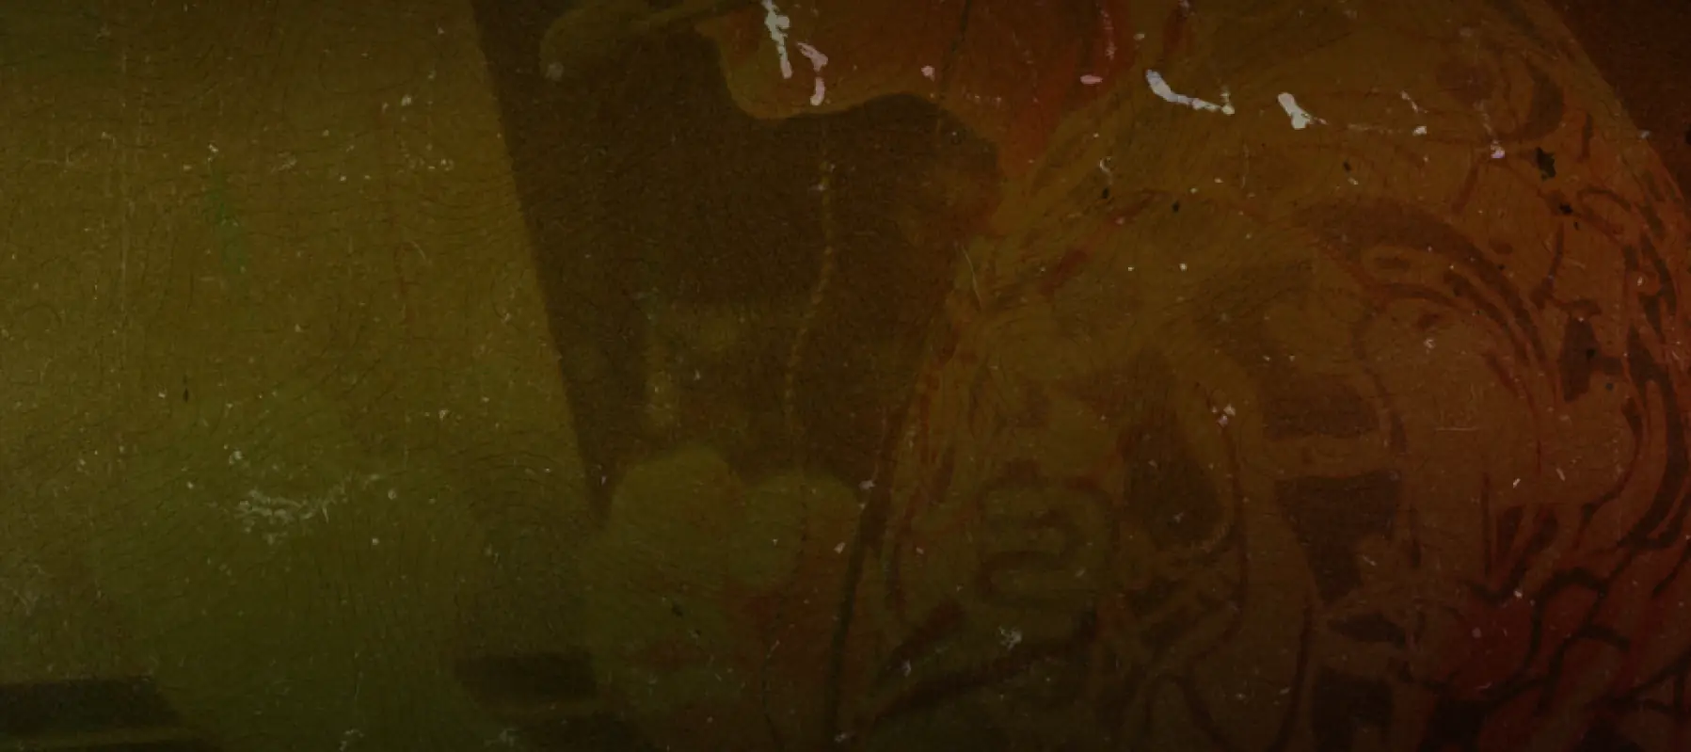
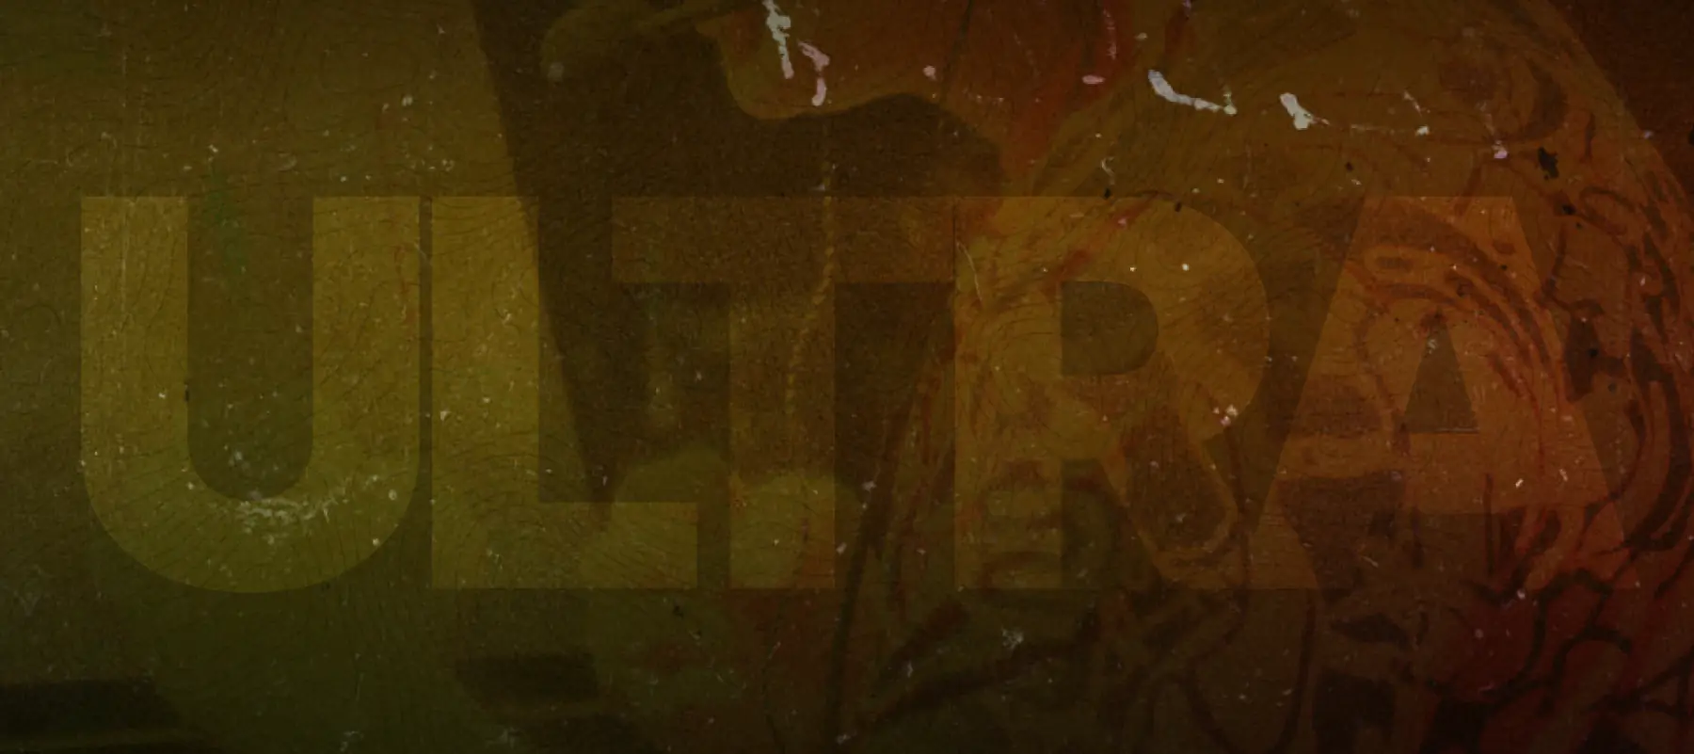
New Ultra desktop layout; rebuild hero slider on one frame loop
- Ultra slide (Figma 415:8492): large centred pouch, copy bottom-left,
  ULTRA letters colour-dodged and baked into the desktop background.
- Desktop progress bars sit under the copy, left-aligned.
- Slider: one requestAnimationFrame loop now drives transitions, the
  progress bars, autoplay and hover tilt. No more Web Animations fill
  states, CSS animationend autoplay, or CSS tilt transitions competing
  for the same elements. Presses mid-transition are queued.
- Load-in animation is cancelled as soon as the slider takes over, so
  changing slides during the intro no longer leaves layers stuck.

Claude-Session: https://claude.ai/code/session_01VpwYWBZX437HjZy1httESj

diff --git a/index.html b/index.html
@@ -133,7 +133,7 @@ img{display:block;max-width:100%}
 
 /* ───────── HERO SLIDER ───────── */
 .hero{position:relative;height:clamp(560px,175vw,720px);overflow:hidden;background:#1f1708;touch-action:pan-y;isolation:isolate}
-.slide{position:absolute;inset:0;visibility:hidden;z-index:0;overflow:hidden}
+.slide{position:absolute;inset:0;visibility:hidden;z-index:0;overflow:hidden;container-type:size}
 .slide.is-active,.slide.is-out{visibility:visible;z-index:1}
 .slide.is-in{visibility:visible;z-index:2}
 /* backgrounds: one pre-cropped image per breakpoint with every gradient/dim baked in; only transform + opacity ever animate */
@@ -144,13 +144,12 @@ img{display:block;max-width:100%}
   padding-top:calc(var(--bar-h) + 10px);padding-bottom:62px;padding-left:var(--gx);padding-right:var(--gxr);text-align:center}
 .slide[data-align="start"] .s-stage{align-items:flex-start;text-align:left;gap:16px}
 .s-pouch{flex:0 1 auto;height:54%;min-height:0;display:flex;justify-content:center;align-items:center;will-change:transform}
-.tilt{height:100%;transition:translate .9s cubic-bezier(.2,.8,.2,1),rotate .9s cubic-bezier(.2,.8,.2,1)}
+.tilt{height:100%}  /* hover tilt is eased in JS, inside the slider's frame loop */
 .s-pouch img{height:100%;width:auto;max-width:82vw;object-fit:contain;filter:drop-shadow(0 30px 40px rgba(0,0,0,.45));animation:float 7s ease-in-out infinite}
 @keyframes float{0%,100%{transform:translateY(0) rotate(-1.2deg)}50%{transform:translateY(-12px) rotate(1.4deg)}}
 /* G2: two pouches overlapping, black set back, yellow forward; each travels at its own speed */
 /* Positions are solved from each pouch's solid outline (the PNGs carry a soft shadow off to the right/bottom),
    so the pair is centred on the pouches themselves, not on their image boxes. Units are the slide's size (cqw/cqh). */
-.slide[data-k="g2"]{container-type:size}
 .duo{position:absolute;top:0;left:0;width:100%;height:100%;pointer-events:none}
 .duo .s-pouch{position:absolute;transform-origin:33% 47%}
 /* phone: fanned pair, each pouch ~42% of the hero tall, centred on the column above the copy */
@@ -179,10 +178,6 @@ img{display:block;max-width:100%}
 .dot .track{display:block;height:3px;border-radius:20px;background:var(--t-30);overflow:hidden;transition:background-color .2s}
 .dot:hover .track{background:rgba(255,255,255,.5)}
 .dot .fill{display:block;height:100%;background:var(--paper);border-radius:20px;transform-origin:left;transform:scaleX(0)}
-.dot.on .fill{animation:fill var(--dur,6500ms) linear forwards}
-.dot.done .fill{transform:scaleX(1)}
-.hero.paused .dot.on .fill{animation-play-state:paused}
-@keyframes fill{to{transform:scaleX(1)}}
 .ctrls{position:absolute;z-index:5;right:calc(33px + env(safe-area-inset-right,0px));bottom:22px;display:flex;gap:12px}
 .ctrl{width:39px;height:39px;border-radius:20px;display:grid;place-items:center;color:#000;
   background:rgba(255,255,255,.62);transition:background-color .2s,scale .25s var(--ease-out)}
@@ -233,8 +228,16 @@ img{display:block;max-width:100%}
   .duo .p-back{height:74cqh;top:17.5cqh;left:calc(50% - 54.8cqh);rotate:-3deg}
   .duo .p-front{height:73.2cqh;top:18.4cqh;left:calc(50% - 6.7cqh);rotate:.24deg}
   .slide[data-k="g2"] .s-copy,.slide[data-k="g2"] .s-btn{position:relative;z-index:3}
-  .slide[data-align="start"] .s-stage{padding-left:max(6vw,var(--gx));padding-bottom:86px}
+  /* Figma 415:8492 / 560:9473: copy sits bottom-left at 67/1797 of the width, progress bars 22px under the button */
+  .hero{--copy-x:max(3.73vw, var(--gx))}
+  .slide[data-align="start"] .s-stage,.slide[data-k="ultra"] .s-stage{padding-left:var(--copy-x);padding-bottom:76px;align-items:flex-start;text-align:left;gap:22px}
   .slide[data-align="start"] .s-copy{max-width:420px}
+  .slide[data-k="ultra"] .s-copy{max-width:361px;gap:10px}
+  .slide[data-k="ultra"] .display{white-space:nowrap}
+  .dots{left:var(--copy-x);bottom:45px;transform:none}
+  /* Ultra: pouch centred and large (538/800 of the hero), big ULTRA letters are baked into the background */
+  .slide[data-k="ultra"] .s-pouch{position:absolute;left:50%;top:18.4cqh;height:67.25cqh;translate:-50% 0}
+  .slide[data-k="ultra"] .s-pouch img{max-width:none}
   .tiles{grid-template-columns:1fr 1fr}
   .tile{height:clamp(560px,38.4vw,800px)}
   .hands{width:53.6%}
@@ -252,7 +255,6 @@ img{display:block;max-width:100%}
 
 @media (prefers-reduced-motion:reduce){
   *,*::before,*::after{animation-duration:.001ms!important;animation-iteration-count:1!important;transition-duration:.001ms!important;transition-delay:0s!important}
-  .dot.on .fill{animation:none;transform:scaleX(1)}
   .tilt{translate:none!important;rotate:none!important}
 }
 </style>
@@ -544,116 +546,101 @@ img{display:block;max-width:100%}
   burger.addEventListener('click', () => toggleM());
   $$('.mnav [data-close]').forEach(a => a.addEventListener('click', () => toggleM(false)));
 
-  /* ── hero slider ── */
+  /* ── hero slider ──
+     One requestAnimationFrame loop owns every moving part of the hero: slide transitions, the progress bars,
+     autoplay and the hover tilt. Each frame computes every layer's position from the clock, so a transition can't be
+     left half-finished, two effects never fight over the same element, and a press mid-transition is simply queued. */
   const hero = $('#hero'), slides = $$('.slide', hero), dots = $$('.dot', hero), live = $('#live');
-  const N = slides.length;
-  let cur = 0, busy = false, pending = null, tiltTo = null;
-  /* cheap dimmer per slide (animating filter on a full-bleed photo repaints every frame and stutters) */
+  const N = slides.length, DUR = 6500, END = 1840;
   slides.forEach(s => { const d = document.createElement('div'); d.className = 's-dim'; $('.s-bg', s).appendChild(d); });
-  const L = s => ({ bg: $('.s-bg', s), img: $('.s-bg img', s), dim: $('.s-dim', s), pouches: $$('.s-pouch', s), copy: $('.s-copy', s), btn: $('.s-btn', s) });
-  /* decode every slide image up front so nothing pops in mid-transition */
+  const L = s => ({ s, bg: $('.s-bg', s), img: $('.s-bg img', s), dim: $('.s-dim', s), pouches: $$('.s-pouch', s), tilts: $$('.tilt', s), copy: $('.s-copy', s), btn: $('.s-btn', s) });
+  const layers = slides.map(L);
   const decoded = new WeakMap();
   const prep = s => {
     if (!decoded.has(s)) decoded.set(s, Promise.all($$('img', s).map(im => { im.loading = 'eager'; return im.decode ? im.decode().catch(() => {}) : Promise.resolve(); })));
     return decoded.get(s);
   };
 
-  function setDot(i) {
-    dots.forEach((d, k) => { d.classList.remove('on'); d.removeAttribute('aria-current'); });
-    void dots[i].offsetWidth; /* restart fill */
-    dots[i].classList.add('on'); dots[i].setAttribute('aria-current', 'true');
-  }
+  /* cubic-bezier evaluated by bisection: slow-ish but exact and can't diverge */
+  const bez = (x1, y1, x2, y2) => {
+    const f = (u, a, b) => 3 * (1 - u) * (1 - u) * u * a + 3 * (1 - u) * u * u * b + u * u * u;
+    return t => { if (t <= 0) return 0; if (t >= 1) return 1; let lo = 0, hi = 1, u = t; for (let i = 0; i < 20; i++) { u = (lo + hi) / 2; if (f(u, x1, x2) < t) lo = u; else hi = u; } return f(u, y1, y2); };
+  };
+  const IO = bez(.76, 0, .2, 1), OUT = bez(.16, 1, .3, 1), IN = bez(.55, 0, .8, .2), PIN = bez(.3, 0, .7, .4), LIN = t => Math.min(1, Math.max(0, t));
+  const seg = (t, start, dur, e) => e(Math.min(1, Math.max(0, (t - start) / dur)));
+  const tx = (x, unit, r) => `translate3d(${x.toFixed(3)}${unit},0,0)` + (r ? ` rotate(${r.toFixed(2)}deg)` : '');
 
-  function go(i, dir) {
-    i = (i + N) % N;
-    if (i === cur) return;
-    if (busy) { pending = { to: i }; return; }
-    busy = true;
-    const ready = Promise.race([prep(slides[i]), new Promise(r => setTimeout(r, 450))]);
-    ready.then(() => run_(i, dir));
-  }
-  function run_(i, dir) {
-    const A = slides[cur], B = slides[i], a = L(A), b = L(B);
-    /* incoming pouches start untilted (snap, they're off-screen); outgoing ones ease back to neutral as they leave */
-    $$('.tilt', B).forEach(t => { t.style.transition = 'none'; t.style.translate = ''; t.style.rotate = ''; void t.offsetWidth; t.style.transition = ''; });
-    $$('.tilt', A).forEach(t => { t.style.translate = ''; t.style.rotate = ''; });
-    B.classList.add('is-in'); A.classList.add('is-out');
-    setDot(i);
-    live.textContent = B.getAttribute('aria-label') + ': ' + $('.display', B).textContent;
-    const run = [];
-    const an = (el, k, o) => { if (el) run.push(el.animate(k, o)); };
-    const X = v => `translate3d(${v},0,0)`;
+  let cur = 0, tr = null, queued = null, paused = false, introDone = RM.matches, elapsed = 0, lastT = performance.now();
+  let introAnims = [];
+  let fillShown = [];
 
-    if (RM.matches) {
-      an(B, [{ opacity: 0 }, { opacity: 1 }], { duration: 350, easing: 'ease' });
-    } else {
-      const IO = 'cubic-bezier(.76,0,.2,1)', OUT = 'cubic-bezier(.16,1,.3,1)', IN = 'cubic-bezier(.55,0,.8,.2)';
-      const D = 1100;
-      /* background: new photo wipes in from the pressed side while its image counter-drifts; old one is pushed slower and dims */
-      an(b.bg, [{ transform: X(dir * 100 + '%') }, { transform: X(0) }], { duration: D, easing: IO });
-      an(b.img, [{ transform: X(-dir * 45 + '%') }, { transform: X(0) }], { duration: D, easing: IO });
-      an(a.bg, [{ transform: X(0) }, { transform: X(-dir * 32 + '%') }], { duration: D, easing: IO, fill: 'forwards' });
-      an(a.dim, [{ opacity: 0 }, { opacity: .65 }], { duration: D, easing: IO, fill: 'forwards' });
-      /* product: fastest, most distant layer */
-      /* with two pouches, the back one leaves first and arrives first; the front one travels further */
-      /* outgoing product starts moving on frame one and is gone (faded) before the incoming one reaches the middle, so they never cross */
-      a.pouches.forEach((el, k) => an(el, [
-        { transform: 'none', opacity: 1 },
-        { opacity: 0, offset: .5 },
-        { transform: X(-dir * (45 + k * 15) + 'vw') + ` rotate(${-dir * (12 + k * 5)}deg)`, opacity: 0 }
-      ], { duration: 520, easing: 'cubic-bezier(.3,0,.7,.4)', fill: 'forwards' }));
-      b.pouches.forEach((el, k) => an(el, [{ transform: X(dir * (70 + k * 30) + 'vw') + ` rotate(${dir * (20 + k * 8)}deg)`, opacity: 0 }, { transform: 'none', opacity: 1 }], { duration: 1250 + k * 120, delay: 360 + k * 110, easing: OUT, fill: 'backwards' }));
-      /* text and button travel separately: text first and shorter, button later and further */
-      an(a.copy, [{ transform: 'none', opacity: 1 }, { transform: X(-dir * 110 + 'px'), opacity: 0 }], { duration: 360, easing: IN, fill: 'forwards' });
-      an(a.btn, [{ transform: 'none', opacity: 1 }, { transform: X(-dir * 220 + 'px'), opacity: 0 }], { duration: 460, delay: 40, easing: IN, fill: 'forwards' });
-      an(b.copy, [{ transform: X(dir * 160 + 'px'), opacity: 0 }, { transform: 'none', opacity: 1 }], { duration: 950, delay: 540, easing: OUT, fill: 'backwards' });
-      an(b.btn, [{ transform: X(dir * 340 + 'px'), opacity: 0 }, { transform: 'none', opacity: 1 }], { duration: 1100, delay: 660, easing: OUT, fill: 'backwards' });
-    }
-    Promise.all(run.map(x => x.finished)).catch(() => {}).then(() => {
-      A.classList.remove('is-active', 'is-out');
-      B.classList.remove('is-in'); B.classList.add('is-active');
-      run.forEach(x => x.cancel());
-      cur = i; busy = false;
-      if (FINE.matches && typeof tiltTo === 'function') tiltTo();
-      if (pending) {
-        const q = pending; pending = null;
-        /* queued presses are resolved against the slide we just landed on, so back-back really goes back twice */
-        if (q.step) go(cur + q.step, q.step);
-        else if (q.to !== cur) go(q.to, q.to > cur ? 1 : -1);
-      }
+  function clear(l) {
+    [l.bg, l.img, l.copy, l.btn, ...l.pouches].forEach(el => { if (el) { el.style.transform = ''; el.style.opacity = ''; } });
+    if (l.dim) l.dim.style.opacity = '';
+    l.s.style.opacity = '';
+  }
+  function draw(t) {
+    const a = layers[tr.from], b = layers[tr.to], dir = tr.dir;
+    if (RM.matches) { b.s.style.opacity = LIN(t / 350); return; }
+    let q = seg(t, 0, 1100, IO);
+    b.bg.style.transform = tx(dir * 100 * (1 - q), '%');
+    b.img.style.transform = tx(-dir * 45 * (1 - q), '%');
+    a.bg.style.transform = tx(-dir * 32 * q, '%');
+    a.dim.style.opacity = (.65 * q).toFixed(3);
+    a.pouches.forEach((el, k) => {
+      const m = seg(t, k * 30, 520, PIN);
+      el.style.transform = tx(-dir * (45 + 15 * k) * m, 'vw', -dir * (12 + 5 * k) * m);
+      el.style.opacity = (1 - seg(t, k * 30, 260, LIN)).toFixed(3);
     });
+    b.pouches.forEach((el, k) => {
+      const m = seg(t, 360 + 110 * k, 1250 + 120 * k, OUT);
+      el.style.transform = tx(dir * (70 + 30 * k) * (1 - m), 'vw', dir * (20 + 8 * k) * (1 - m));
+      el.style.opacity = m.toFixed(3);
+    });
+    q = seg(t, 0, 360, IN);   a.copy.style.transform = tx(-dir * 110 * q, 'px'); a.copy.style.opacity = (1 - q).toFixed(3);
+    q = seg(t, 40, 460, IN);  a.btn.style.transform = tx(-dir * 220 * q, 'px');  a.btn.style.opacity = (1 - q).toFixed(3);
+    q = seg(t, 540, 950, OUT); b.copy.style.transform = tx(dir * 160 * (1 - q), 'px'); b.copy.style.opacity = q.toFixed(3);
+    q = seg(t, 660, 1100, OUT); b.btn.style.transform = tx(dir * 340 * (1 - q), 'px'); b.btn.style.opacity = q.toFixed(3);
   }
-  const next = () => busy ? (pending = { step: 1 }) : go(cur + 1, 1);
-  const prev = () => busy ? (pending = { step: -1 }) : go(cur - 1, -1);
-  $('#next').addEventListener('click', next);
-  $('#prev').addEventListener('click', prev);
-  dots.forEach((d, k) => d.addEventListener('click', () => busy ? (pending = { to: k }) : go(k, k > cur ? 1 : -1)));
-  dots.forEach(d => $('.fill', d).addEventListener('animationend', () => { if (d.classList.contains('on')) next(); }));
 
-  const pauseBtn = $('#pause');
-  const setPaused = p => { hero.classList.toggle('paused', p); pauseBtn.setAttribute('aria-label', p ? 'Play slideshow' : 'Pause slideshow'); };
-  pauseBtn.addEventListener('click', () => setPaused(!hero.classList.contains('paused')));
-  if (RM.matches) setPaused(true);
+  function request(to, dir) {
+    to = (to % N + N) % N;
+    if (tr) { queued = { to }; return; }
+    if (to !== cur) start(to, dir);
+  }
+  function step(d) { if (tr) queued = { step: d }; else start((cur + d + N) % N, d); }
 
-  hero.addEventListener('keydown', e => {
-    if (e.key === 'ArrowRight') { e.preventDefault(); next(); }
-    if (e.key === 'ArrowLeft') { e.preventDefault(); prev(); }
-  });
+  function start(to, dir) {
+    /* the load-in animations use the same elements, so retire them before a transition takes over */
+    introAnims.forEach(x => x.cancel()); introAnims = []; introDone = true;
+    tr = { from: cur, to, dir, t0: 0, ready: false };
+    dots.forEach((d, k) => k === to ? d.setAttribute('aria-current', 'true') : d.removeAttribute('aria-current'));
+    live.textContent = slides[to].getAttribute('aria-label') + ': ' + $('.display', slides[to]).textContent;
+    const go = () => {
+      if (!tr || tr.ready) return;
+      tr.ready = true; tr.t0 = performance.now();
+      draw(0);                                   /* first frame written before the slide becomes visible: no flash */
+      slides[tr.to].classList.add('is-in'); slides[tr.from].classList.add('is-out');
+    };
+    Promise.race([prep(slides[to]), new Promise(r => setTimeout(r, 450))]).then(go);
+  }
+  function settle() {
+    const A = slides[tr.from], B = slides[tr.to];
+    clear(layers[tr.from]); clear(layers[tr.to]);
+    layers[tr.from].tilts.forEach(t => { t.style.translate = ''; t.style.rotate = ''; });
+    A.classList.remove('is-active', 'is-out'); B.classList.remove('is-in'); B.classList.add('is-active');
+    cur = tr.to; tr = null; elapsed = 0;
+    if (queued) {
+      const q = queued; queued = null;
+      if (q.step) start((cur + q.step + N) % N, q.step);
+      else if (q.to !== cur) start(q.to, q.to > cur ? 1 : -1);
+    }
+  }
 
-  /* swipe / drag: direction follows the gesture */
-  let sx = 0, sy = 0, down = false;
-  /* swipes are for touch and pen only, so mouse hovering/clicking can never trigger a slide change */
-  hero.addEventListener('pointerdown', e => { if (e.pointerType === 'mouse' || e.button !== 0) return; down = true; sx = e.clientX; sy = e.clientY; });
-  hero.addEventListener('pointerup', e => {
-    if (!down) return; down = false;
-    const dx = e.clientX - sx, dy = e.clientY - sy;
-    if (Math.abs(dx) > 45 && Math.abs(dx) > Math.abs(dy) * 1.3) { dx < 0 ? next() : prev(); }
-  });
-  hero.addEventListener('pointercancel', () => down = false);
-
-  /* pointer depth: background and product drift against each other */
-  if (FINE.matches && !RM.matches) {
-    let raf = 0, px = 0, py = 0, rect = null;
+  /* hover tilt: target follows the mouse, current eases toward it every frame */
+  const tilt = { x: 0, y: 0, tx: 0, ty: 0, on: FINE.matches && !RM.matches, drawn: false };
+  if (tilt.on) {
+    let rect = null;
     const measure = () => { rect = hero.getBoundingClientRect(); };
     hero.addEventListener('pointerenter', measure);
     addEventListener('scroll', () => { rect = null; }, { passive: true });
@@ -661,22 +648,70 @@ img{display:block;max-width:100%}
     hero.addEventListener('pointermove', e => {
       if (e.pointerType !== 'mouse') return;
       if (!rect) measure();
-      px = (e.clientX - rect.left) / rect.width - .5; py = (e.clientY - rect.top) / rect.height - .5;
-      if (!raf) raf = requestAnimationFrame(tiltTo);
+      tilt.tx = (e.clientX - rect.left) / rect.width - .5; tilt.ty = (e.clientY - rect.top) / rect.height - .5;
     });
-    hero.addEventListener('pointerleave', () => { px = 0; py = 0; tiltTo(); });
-    /* write transforms straight onto the active slide's pouches (no inherited CSS vars, so no style recalc across the hero) */
-    /* hover tilt sits out while a slide change runs; it resumes on the new slide once it has landed */
-    tiltTo = function () {
-      raf = 0;
-      if (busy) return;
-      $$('.slide.is-active .tilt', hero).forEach(t => {
-        const d = parseFloat(t.parentElement.style.getPropertyValue('--d')) || 1;
-        t.style.translate = `${(px * 30 * d).toFixed(1)}px ${(py * 20 * d).toFixed(1)}px`;
-        t.style.rotate = `${(px * 5 * d).toFixed(2)}deg`;
-      });
-    }
+    hero.addEventListener('pointerleave', () => { tilt.tx = 0; tilt.ty = 0; });
   }
+  function drawTilt(dt) {
+    const gx = tr ? 0 : tilt.tx, gy = tr ? 0 : tilt.ty, k = 1 - Math.exp(-dt / 140);
+    tilt.x += (gx - tilt.x) * k; tilt.y += (gy - tilt.y) * k;
+    const still = Math.abs(tilt.x) < .0005 && Math.abs(tilt.y) < .0005;
+    if (still && !tilt.drawn) return;
+    const targets = tr ? [...layers[tr.from].tilts, ...layers[tr.to].tilts] : layers[cur].tilts;
+    targets.forEach(t => {
+      const d = parseFloat(t.parentElement.style.getPropertyValue('--d')) || 1;
+      t.style.translate = still ? '' : `${(tilt.x * 30 * d).toFixed(1)}px ${(tilt.y * 20 * d).toFixed(1)}px`;
+      t.style.rotate = still ? '' : `${(tilt.x * 5 * d).toFixed(2)}deg`;
+    });
+    tilt.drawn = !still;
+  }
+
+  function drawDots() {
+    dots.forEach((d, k) => {
+      const v = (!tr && k === cur) ? Math.min(1, elapsed / DUR) : 0;
+      if (fillShown[k] !== v) { d.firstElementChild.firstElementChild.style.transform = `scaleX(${v.toFixed(4)})`; fillShown[k] = v; }
+    });
+  }
+
+  function loop(now) {
+    const dt = Math.min(100, now - lastT); lastT = now;
+    if (tr && tr.ready) {
+      const t = now - tr.t0;
+      if (t >= (RM.matches ? 350 : END)) settle(); else draw(t);
+    }
+    if (!tr && !paused && introDone && !document.hidden) {
+      elapsed += dt;
+      if (elapsed >= DUR) step(1);
+    }
+    drawDots();
+    if (tilt.on) drawTilt(dt);
+    requestAnimationFrame(loop);
+  }
+  requestAnimationFrame(loop);
+
+  $('#next').addEventListener('click', () => step(1));
+  $('#prev').addEventListener('click', () => step(-1));
+  dots.forEach((d, k) => d.addEventListener('click', () => request(k, k > (tr ? tr.to : cur) ? 1 : -1)));
+
+  const pauseBtn = $('#pause');
+  const setPaused = p => { paused = p; hero.classList.toggle('paused', p); pauseBtn.setAttribute('aria-label', p ? 'Play slideshow' : 'Pause slideshow'); };
+  pauseBtn.addEventListener('click', () => setPaused(!paused));
+  if (RM.matches) setPaused(true);
+
+  hero.addEventListener('keydown', e => {
+    if (e.key === 'ArrowRight') { e.preventDefault(); step(1); }
+    if (e.key === 'ArrowLeft') { e.preventDefault(); step(-1); }
+  });
+
+  /* swipes are touch and pen only, so the mouse can never change slides by accident */
+  let sx = 0, sy = 0, down = false;
+  hero.addEventListener('pointerdown', e => { if (e.pointerType === 'mouse' || e.button !== 0) return; down = true; sx = e.clientX; sy = e.clientY; });
+  hero.addEventListener('pointerup', e => {
+    if (!down) return; down = false;
+    const dx = e.clientX - sx, dy = e.clientY - sy;
+    if (Math.abs(dx) > 45 && Math.abs(dx) > Math.abs(dy) * 1.3) step(dx < 0 ? 1 : -1);
+  });
+  hero.addEventListener('pointercancel', () => down = false);
 
   /* scroll parallax for tiles (transform only, content is always visible) */
   const par = $$('[data-par]');
@@ -699,7 +734,7 @@ img{display:block;max-width:100%}
   /* warm the other slides once the first is in */
   addEventListener('load', () => setTimeout(() => slides.forEach(prep), 400));
 
-  /* ── load sequence ── */
+  /* ── load sequence (cancelled the moment the slider takes over) ── */
   if (!RM.matches) {
     const els = k => $$(`[data-intro="${k}"]`);
     const firstImg = $('.slide.is-active .s-bg img'), pouchImg = $('.slide.is-active .s-pouch img');
@@ -707,21 +742,22 @@ img{display:block;max-width:100%}
       Promise.all([firstImg, pouchImg].map(i => i.decode ? i.decode().catch(() => {}) : Promise.resolve())),
       new Promise(r => setTimeout(r, 1400))
     ]);
-    /* hold the first fill until the intro lands */
-    dots[0].classList.remove('on');
-    const intro = [];
     const hold = { opacity: 0 };
-    [...els('nav'), ...els('bg'), ...els('pouch'), ...els('copy'), ...els('btn'), ...els('dots')].forEach(el => intro.push(el.animate([hold, hold], { duration: 1e6 })));
+    [...els('nav'), ...els('bg'), ...els('pouch'), ...els('copy'), ...els('btn'), ...els('dots')].forEach(el => introAnims.push(el.animate([hold, hold], { duration: 1e6 })));
     ready.then(() => {
-      intro.forEach(a => a.cancel());
-      const OUT = 'cubic-bezier(.16,1,.3,1)';
-      els('bg').forEach(el => el.animate([{ opacity: 0, transform: 'scale(1.14)' }, { opacity: 1, transform: 'scale(1)' }], { duration: 1800, easing: OUT, fill: 'backwards' }));
-      els('nav').forEach((el, k) => el.animate([{ opacity: 0, transform: 'translateY(-10px)' }, { opacity: 1, transform: 'none' }], { duration: 900, delay: 300 + k * 60, easing: OUT, fill: 'backwards' }));
-      els('pouch').forEach(el => el.animate([{ opacity: 0, transform: 'translateY(60px) rotate(-14deg) scale(.86)' }, { opacity: 1, transform: 'none' }], { duration: 1500, delay: 220, easing: 'cubic-bezier(.2,1.25,.35,1)', fill: 'backwards' }));
-      els('copy').forEach(el => el.animate([{ opacity: 0, transform: 'translateY(26px)' }, { opacity: 1, transform: 'none' }], { duration: 1000, delay: 520, easing: OUT, fill: 'backwards' }));
-      els('btn').forEach(el => el.animate([{ opacity: 0, transform: 'translateY(34px)' }, { opacity: 1, transform: 'none' }], { duration: 1100, delay: 640, easing: OUT, fill: 'backwards' }));
-      els('dots').forEach(el => el.animate([{ opacity: 0 }, { opacity: 1 }], { duration: 800, delay: 900, easing: 'ease', fill: 'backwards' }));
-      setTimeout(() => { if (cur === 0 && !busy) setDot(0); }, 900);
+      introAnims.forEach(a => a.cancel());
+      const OUTc = 'cubic-bezier(.16,1,.3,1)';
+      els('nav').forEach((el, k) => el.animate([{ opacity: 0, transform: 'translateY(-10px)' }, { opacity: 1, transform: 'none' }], { duration: 900, delay: 300 + k * 60, easing: OUTc, fill: 'backwards' }));
+      if (introDone) return;               /* someone already changed slides: leave the hero to the slider */
+      const A = [];
+      els('bg').forEach(el => A.push(el.animate([{ opacity: 0, transform: 'scale(1.14)' }, { opacity: 1, transform: 'scale(1)' }], { duration: 1800, easing: OUTc, fill: 'backwards' })));
+      els('pouch').forEach(el => A.push(el.animate([{ opacity: 0, transform: 'translateY(60px) rotate(-14deg) scale(.86)' }, { opacity: 1, transform: 'none' }], { duration: 1500, delay: 220, easing: 'cubic-bezier(.2,1.25,.35,1)', fill: 'backwards' })));
+      els('copy').forEach(el => A.push(el.animate([{ opacity: 0, transform: 'translateY(26px)' }, { opacity: 1, transform: 'none' }], { duration: 1000, delay: 520, easing: OUTc, fill: 'backwards' })));
+      els('btn').forEach(el => A.push(el.animate([{ opacity: 0, transform: 'translateY(34px)' }, { opacity: 1, transform: 'none' }], { duration: 1100, delay: 640, easing: OUTc, fill: 'backwards' })));
+      els('dots').forEach(el => A.push(el.animate([{ opacity: 0 }, { opacity: 1 }], { duration: 800, delay: 900, easing: 'ease', fill: 'backwards' })));
+      introAnims = A;
+      setTimeout(() => { introDone = true; }, 900);
+      Promise.all(A.map(x => x.finished)).then(() => { A.forEach(x => x.cancel()); if (introAnims === A) introAnims = []; }).catch(() => {});
     });
   }
 })();
